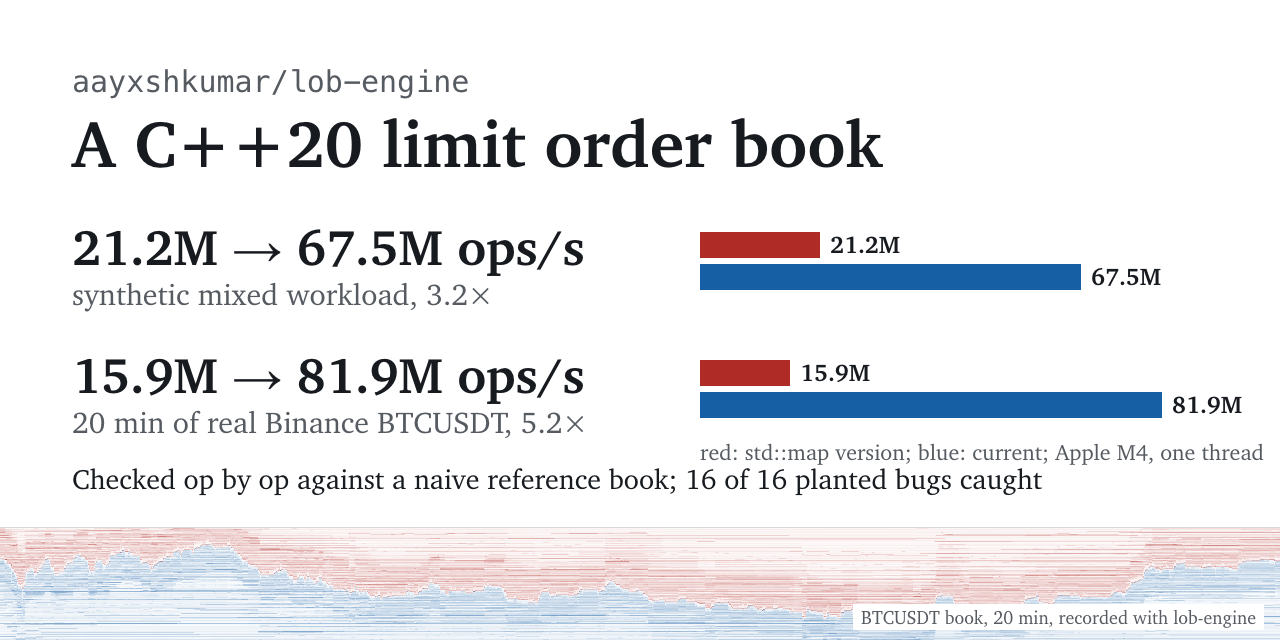
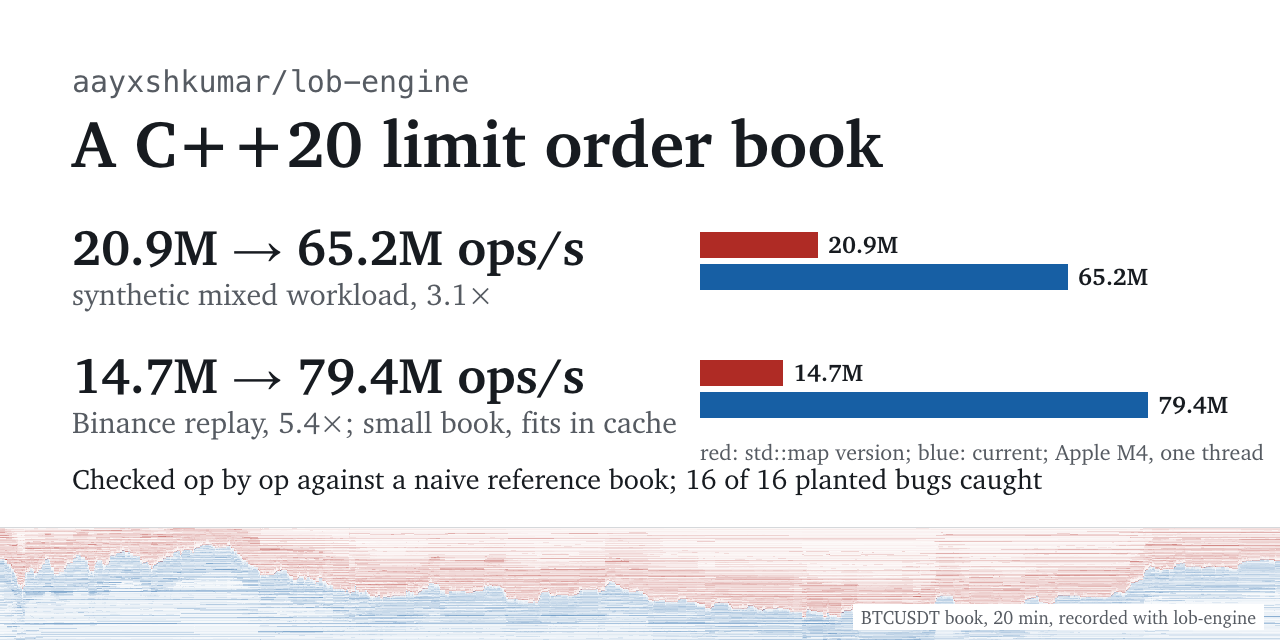
README: numbers from the committed runs at 2265115 and 103a6b0
Every figure in the README now comes from raw output in the repo: v0 and
v2 from bench/results/2026-10-30-m4-b3e2236 (2265115), v1 from the
v1-random branch (103a6b0), median of 10 interleaved repetitions, all
three versions sized for 262,144 orders in the mixed rows. The headline
moves from 21.2M -> 67.5M (median of 3, raw output not kept, v1 sized
for 1M) to 20.9M -> 65.2M ops/s (3.1x); the replay is 5.4x with its
cache caveat.

Also: say the machine wasn't idle and give the load; label the
linear-scan sweep figures as the earlier harness; describe the three CI
jobs as ci.yml defines them; neutral planted-bug wording; a "How it was
built" section; regenerated throughput charts and social preview.

diff --git a/tools/plot_throughput.py b/tools/plot_throughput.py
@@ -11,8 +11,8 @@ import sys
 from pathlib import Path
 
 GROUPS = [
-    ("Synthetic mixed workload, 1M operations", [21.2, 34.3, 67.5]),
-    ("20 minutes of Binance BTCUSDT, replayed", [15.9, None, 81.9]),
+    ("Synthetic mixed workload, 1M operations", [20.9, 35.7, 65.2]),
+    ("20 minutes of Binance BTCUSDT, replayed", [14.7, None, 79.4]),
 ]
 LABELS = ["v0  std::map", "v1  arrays + bitset", "v2  + id table"]
 THEMES = {
@@ -25,12 +25,13 @@ W, H, X0, XMAX, SCALE_MAX = 880, 414, 236, 800, 90
 
 def svg(t):
     x = lambda v: X0 + v / SCALE_MAX * (XMAX - X0)
-    alt = ("Throughput, million ops/s, Apple M4, one thread. Synthetic mixed workload: std::map 21.2M, "
-           "arrays + bitset 34.3M, id table 67.5M. 20 minutes of Binance BTCUSDT replayed: std::map 15.9M, id table 81.9M.")
+    alt = ("Throughput, million ops/s, Apple M4, one thread. Synthetic mixed workload: std::map 20.9M, "
+           "arrays + bitset 35.7M, id table 65.2M. 20 minutes of Binance BTCUSDT replayed, a small book that fits in cache: "
+           "std::map 14.7M, id table 79.4M.")
     p = [f'<svg xmlns="http://www.w3.org/2000/svg" width="{W}" height="{H}" viewBox="0 0 {W} {H}" '
          f'font-family=\'{FONT}\' role="img" aria-labelledby="t"><title id="t">{alt}</title>',
          f'<text x="0" y="28" font-size="24" font-weight="600" fill="{t["fg"]}">Throughput, million ops/s (higher is better)</text>',
-         f'<text x="0" y="56" font-size="17" fill="{t["mut"]}">Apple M4, Apple clang 17 -O3, one thread; median of 3 (synthetic), 5 (replay)</text>']
+         f'<text x="0" y="56" font-size="17" fill="{t["mut"]}">Apple M4, Apple clang 17 -O3, one thread; median of 10 (synthetic), 5 (replay)</text>']
     top, bottom = 82, 372
     for v in range(0, SCALE_MAX + 1, 20):
         p.append(f'<line x1="{x(v):.1f}" y1="{top}" x2="{x(v):.1f}" y2="{bottom}" stroke="{t["grid"]}" stroke-width="1"/>')

diff --git a/README.md b/README.md
@@ -1,8 +1,8 @@
 # lob-engine
 
-A limit order book and matching engine in C++20. Two measured steps took the mixed workload from **21.2M to 67.5M ops/s (3.2×)**: flat price-level arrays with a bitset (v1), then an open-addressing id table in place of `std::unordered_map` (v2). On 20 minutes of real Binance BTCUSDT order flow, v2 is **5.2× faster** than the `std::map` version. The same tests check every version, and they catch every bug I've planted on purpose.
+A limit order book and matching engine in C++20. Two measured steps took the mixed workload from **20.9M to 65.2M ops/s (3.1×)**: flat price-level arrays with a bitset (v1), then an open-addressing id table in place of `std::unordered_map` (v2). On 20 minutes of real Binance BTCUSDT order flow, v2 is 5.4× faster than the `std::map` version, but the replayed book peaks at 4,203 live orders and fits in cache. The same tests check every version; 16 bugs were planted to test them, and the tests caught all 16.
 
-<picture><source media="(prefers-color-scheme: dark)" srcset="docs/throughput-dark.svg"><img src="docs/throughput-light.svg" width="880" height="414" alt="Throughput, million ops/s, Apple M4, one thread. Synthetic mixed workload: std::map 21.2M, arrays + bitset 34.3M, id table 67.5M. 20 minutes of Binance BTCUSDT replayed: std::map 15.9M, id table 81.9M."></picture>
+<picture><source media="(prefers-color-scheme: dark)" srcset="docs/throughput-dark.svg"><img src="docs/throughput-light.svg" width="880" height="414" alt="Throughput, million ops/s, Apple M4, one thread. Synthetic mixed workload: std::map 20.9M, arrays + bitset 35.7M, id table 65.2M. 20 minutes of Binance BTCUSDT replayed, a small book that fits in cache: std::map 14.7M, id table 79.4M."></picture>
 
 ```bash
 cmake -S . -B build -DCMAKE_BUILD_TYPE=Release && cmake --build build -j
@@ -11,31 +11,33 @@ cmake -S . -B build -DCMAKE_BUILD_TYPE=Release && cmake --build build -j
 
 ## Results
 
-Apple M4, macOS 26, Apple clang 17, `-O3`, median of 3 repetitions. Synthetic workload with a fixed seed: 55% limit adds within ±50 ticks of mid (10% of them crossing), 40% cancels, 5% market orders. It peaks at about 109k live orders. v0 and v2 are sized for 262,144 orders; v1's numbers are from commit `536cb05`, whose benchmark sized the book for all 1M operations. v0 (`MapOrderBook`) and the current book are both in this repo, and `lob_bench` runs them side by side. Raw output from a rerun of the same code is in [`bench/results/`](bench/results/) (`tools/run_bench.sh` writes it): 21.6M → 70.2M ops/s on the mixed workload, 1.8% and 4.1% above the table's medians.
+Apple M4, macOS 26, Apple clang 17, `-O3`, one thread, median of 10 interleaved repetitions. Synthetic workload with a fixed seed: 55% limit adds within ±50 ticks of mid (10% of them crossing), 40% cancels, 5% market orders. It peaks at about 109k live orders. In the two mixed-workload rows all three versions are sized for 262,144 orders; the passive-add, add + cancel and sparse-book benchmarks size their own books. v0 (`MapOrderBook`) and the current book are both in this repo, and `lob_bench` runs them side by side; their columns are from [`bench/results/2026-10-30-m4-b3e2236/`](bench/results/2026-10-30-m4-b3e2236/) (commit `2265115`). v1 is on the [`v1-random`](https://github.com/aayxshkumar/lob-engine/tree/v1-random) branch, the v1 book from `536cb05` with the random-id workload and the current harness added, and its column is from [`bench/results/2026-10-29-m4-d512779/`](https://github.com/aayxshkumar/lob-engine/tree/103a6b0/bench/results/2026-10-29-m4-d512779) there (commit `103a6b0`). `tools/run_bench.sh` writes these folders, raw JSON included.
+
+The machine wasn't idle: each of the four runs from 29–30 October started at a load of 2.4 to 3.8, and where other processes were sampled, Spotlight indexing held about one core (`meta.txt` records the load, and `cpu.txt` in the main run samples what else was running). The ratios between versions are stable (v0 agrees within 1% across the two branches, and main's two runs agree within 2%), but the absolute figures may be a few percent low.
 
 | Benchmark | v0 `std::map` | v1 arrays + bitset | v2 + id table | v0 → v2 |
 |---|---|---|---|---|
-| Mixed workload, 1M ops | 21.2M ops/s | 34.3M ops/s | **67.5M ops/s** | 3.2× |
-| Same, random-looking order ids | 20.0M ops/s | 30.4M ops/s | **60.1M ops/s** | 3.0× |
-| Passive adds, 100k | 35.6M ops/s | 39.5M ops/s | 158M ops/s | 4.4× |
-| Add + cancel, warm book | 32.6 ns | 28.5 ns | **8.6 ns** | 3.8× |
-| Sparse book, 1,000-tick gaps | 2.0 µs | 1.85 µs | 1.28 µs | 1.6× |
+| Mixed workload, 1M ops | 20.9M ops/s | 35.7M ops/s | **65.2M ops/s** | 3.1× |
+| Same, random-looking order ids | 19.9M ops/s | 31.2M ops/s | **56.2M ops/s** | 2.8× |
+| Passive adds, 100k | 35.1M ops/s | 38.7M ops/s | 160M ops/s | 4.6× |
+| Add + cancel, warm book | 32.9 ns | 28.8 ns | **9.4 ns** | 3.5× |
+| Sparse book, 1,000-tick gaps | 1.57 µs | 1.20 µs | 0.60 µs | 2.6× |
 
 ### v2: the id table, and the benchmark that flattered `std::unordered_map`
 
 Every add, cancel and fill looks an order up by id. After v1, that lookup was the largest cost left: `std::unordered_map` allocates a node per order, and each lookup follows a bucket pointer and then a node pointer.
 
-Before replacing it I made the benchmark harder. The generator handed out ids 1, 2, 3…, which is unusually kind to `unordered_map`: consecutive ids land in consecutive buckets, and nodes allocated in order sit next to each other in memory. A real feed rarely gives one book a dense 1, 2, 3 run: on Nasdaq ITCH, for example, order numbers are assigned across every instrument, so a single book sees a sparse, interleaved subset, and scrambled ids are the pessimistic version of that. Scrambling the same ids with a bijective mixer cost v1 25% in one run (34.4M → 25.7M ops/s, book sized for 1M); a later run gave the table's 30.4M. Neither v1 build with scrambled ids was committed, so treat the v1 random-id figures as approximate.
+Before replacing it I made the benchmark harder. The generator handed out ids 1, 2, 3…, which is unusually kind to `unordered_map`: consecutive ids land in consecutive buckets, and nodes allocated in order sit next to each other in memory. A real feed rarely gives one book a dense 1, 2, 3 run: on Nasdaq ITCH, for example, order numbers are assigned across every instrument, so a single book sees a sparse, interleaved subset, and scrambled ids are the pessimistic version of that. Scrambling the same ids with a bijective mixer (the splitmix64 finaliser) costs v1 13% (35.7M → 31.2M ops/s) and v0 5% (20.9M → 19.9M). The v1 runs with scrambled ids are committed on the `v1-random` branch.
 
 [`IdTable`](include/lob/id_table.hpp) is a flat array of 16-byte `{id, slot}` entries with linear probing, at most half full, using Fibonacci hashing (one multiply). Deletes use backward shift rather than tombstones, so a long-running book doesn't fill up with dead entries. Its capacity is fixed by the order pool, so it never rehashes.
 
-The catch is that a fixed table's memory follows the configured capacity, not the live order count. Sized for 1M orders it's 32 MB, which doesn't fit in cache, and with sequential ids the gain disappears (34.4M → 34.4M). Sized to the workload (262,144 orders: 2^19 slots, 8 MB) it's about 2× on both kinds of id. So size the book for the peak you expect, not the largest number you can think of.
+The catch is that a fixed table's memory follows the configured capacity, not the live order count. Sized for 1M orders it's 32 MB, which doesn't fit in cache, and with sequential ids the gain disappears (v1 35.5M, v2 36.0M). Sized to the workload (262,144 orders: 2^19 slots, 8 MB) it's about 1.8× v1 on both kinds of id (65.2M against 35.7M, 56.2M against 31.2M); scrambled ids cost v2 about as much as v1, 14%. So size the book for the peak you expect, not the largest number you can think of.
 
 ### v1: the step that made it worse first
 
-Flat arrays alone weren't a clear win. When the best level empties, the next one has to be found, and the first v1 walked the array one level at a time. The sparse-book benchmark exposed two problems with that:
+Flat arrays alone weren't a clear win. When the best level empties, the next one has to be found, and the first v1 walked the array one level at a time. The sparse-book benchmark exposed two problems with that. These figures are from the earlier harness, which also timed a pause and resume of the benchmark timer (about 0.4 µs) and the book's teardown, so they aren't comparable with the Results table:
 
-| Sparse sweep (50 levels) | v0 map | v1 array, linear scan | v1 + bitset |
+| Sparse sweep (50 levels), earlier harness | v0 map | v1 array, linear scan | v1 + bitset |
 |---|---|---|---|
 | gap 1 tick | 2.0 µs | 22.5 µs → 1.5 µs* | 1.5 µs |
 | gap 100 ticks | 2.0 µs | 3.0 µs | 1.6 µs |
@@ -43,7 +45,7 @@ Flat arrays alone weren't a clear win. When the best level empties, the next one
 
 \* The 22.5 µs was a bug, not the gap. When the last ask was cleared, the scan walked the whole 65,536-level price band looking for an ask that didn't exist. The level count already knew the side was empty; now it says so and skips the scan.
 
-The fix for real gaps is one bit per price level. Finding the next non-empty level then checks 64 levels per instruction (`std::countr_zero`), which beats following `std::map` pointers even with 1,000 empty ticks between levels.
+The fix for real gaps is one bit per price level. Finding the next non-empty level then checks 64 levels per instruction (`std::countr_zero`), which beats following `std::map` pointers even with 1,000 empty ticks between levels. The current harness times only the sweep (`b3e2236`): at 1, 100 and 1,000-tick gaps the bitset build takes 0.90, 0.98 and 1.20 µs against 1.56, 1.56 and 1.57 µs for the map.
 
 ### Latency percentiles: read with care
 
@@ -76,10 +78,12 @@ Recorded on 29 October 2026, 02:30–02:50 UTC: 11,992 diff messages (544,092 le
 | Order operations | 562,850: 53.5% adds, 40.3% cancels, 6.2% size reductions |
 | Peak resting orders | 4,203 |
 | Top 10 levels match the exchange | after 99.93% of diff messages (100% with trades left out) |
-| v0 `std::map`, median of 5 | 15.9M ops/s |
-| v2, median of 5 | **81.9M ops/s (5.2×)** |
+| v0 `std::map`, median of 5 | 14.7M ops/s |
+| v2, median of 5 | **79.4M ops/s (5.4×)** |
 
 The 0.07% comes from the two streams, not the book. Binance doesn't sequence trades against depth diffs, so a trade can arrive after the diff that already includes it, and the book takes that size twice until the next diff for the level corrects it. Replaying the same recording without trades matches after every message.
+
+The replay figures are from [`replay.txt`](bench/results/2026-10-30-m4-b3e2236/replay.txt) in the same run as the Results table. v1 wasn't run on the replay.
 
 Caveats: the order ids are invented, queue positions are inferred from level sizes, and a book of 4,203 orders fits in cache, so this says little about a much deeper book. Recordings aren't committed (`data/` is git-ignored). To make your own:
 
@@ -93,13 +97,13 @@ python3 tools/record_binance.py BTCUSDT 1200 data/btcusdt.lobrec
 - **Every test runs against both books.** The test suites are typed: the same 22 tests run on `OrderBook` and `MapOrderBook`, plus 3 tests specific to the array (price-band edges, out-of-range rejection, finding the next best price across gaps) and 4 for the id table. 51 tests in total.
 - **Differential test:** 20,000 random operations (adds, cancels, three kinds of modify, market orders) per seed, 10 seeds, go through each book and a deliberately naive [`ReferenceBook`](tests/reference_book.hpp). After every step the trades, best bid and ask, order count and depth at every reachable price must match exactly.
 - **Id table differential test:** 20 seeds × 20,000 inserts and erases against `std::unordered_map`, in a 16-entry table so probe runs are long and wrap past the end of the array, which is where backward-shift bugs hide.
-- **Mutation-checked:** I planted 16 bugs by hand and the tests caught all 16.
+- **Mutation-checked:** 16 bugs were planted and the tests caught all 16.
   - Matching rules: priority kept on a size increase, market orders obeying a limit, trades at the taker's price, crossing one tick early, a stale level total.
   - Array book: a skipped rescan (it hangs, which the run's time limit catches), a rescan that skips a level, a new best bid ignored, a level count that never drops.
   - Bitset: a mask off by one, a search starting one level too far, a bit never cleared.
   - Id table: erase without the backward shift, a shift that ignores wrap-around, an off-by-one in the "can this entry stay" test, a shift that stops after one move. (A fifth mutant survived, but it was equivalent: swapping the empty check and the key check can't change the result, because an empty entry's value is already the "absent" marker.)
 - **Replay check:** `lob_replay --strict` replays a synthetic recording (`tools/make_test_recording.py`) and fails unless both books end identical and the top 10 levels per side match the recording after every message. It caught a real translation bug: a message that clears an ask and adds a bid at the same price must apply the reduction first, or the bid crosses the stale ask and invents a trade.
-- **CI:** GCC and Clang on Ubuntu, tests and the strict replay under AddressSanitizer and UndefinedBehaviorSanitizer, and UBSan on macOS.
+- **CI:** three jobs run the tests and the strict replay: Clang on Ubuntu as a release build without sanitizers (plus a short latency run), GCC on Ubuntu under AddressSanitizer and UndefinedBehaviorSanitizer, and Clang on macOS under UndefinedBehaviorSanitizer.
 
 ## Design
 
@@ -116,9 +120,9 @@ Trade-offs: a 65,536-tick price band costs about 1.5 MB of level arrays per book
 ## Roadmap
 
 - [x] Order book core, typed tests, differential test, mutation checks, CI
-- [x] **v1:** flat price-level arrays + bitset (1.6× on the mixed workload)
-- [x] **v2:** open-addressing id table (about 2× over v1 on the mixed workload)
-- [x] Binance depth feed: record to binary, replay through the book (5.2× over v0 on 20 minutes of BTCUSDT)
+- [x] **v1:** flat price-level arrays + bitset (1.7× on the mixed workload)
+- [x] **v2:** open-addressing id table (1.8× over v1 on the mixed workload)
+- [x] Binance depth feed: record to binary, replay through the book (5.4× over v0 on 20 minutes of BTCUSDT, a book small enough to fit in cache)
 - [ ] Linux runs with a TSC-based timer for nanosecond percentiles, plus `perf stat` cache-miss numbers
 - [ ] SPSC ring buffer between feed and engine threads, with ThreadSanitizer in CI and `rigtorp/SPSCQueue` as the baseline
 - [ ] Market-making strategy on replayed data
@@ -134,5 +138,9 @@ bench/results/ raw output of tools/run_bench.sh, one folder per run (commit, mac
 tools/         record_binance.py (stdlib-only recorder), make_test_recording.py, run_bench.sh,
                plot_cdf.py, plot_throughput.py and plot_depth.py (the images in docs/)
 ```
+
+## How it was built
+
+I directed this project and built it with Claude Code. Every commit carries a `Co-Authored-By: Claude` trailer. How I use it is on my [colophon](https://aayxshkumar.github.io/colophon.html#ai).
 
 MIT licensed.
